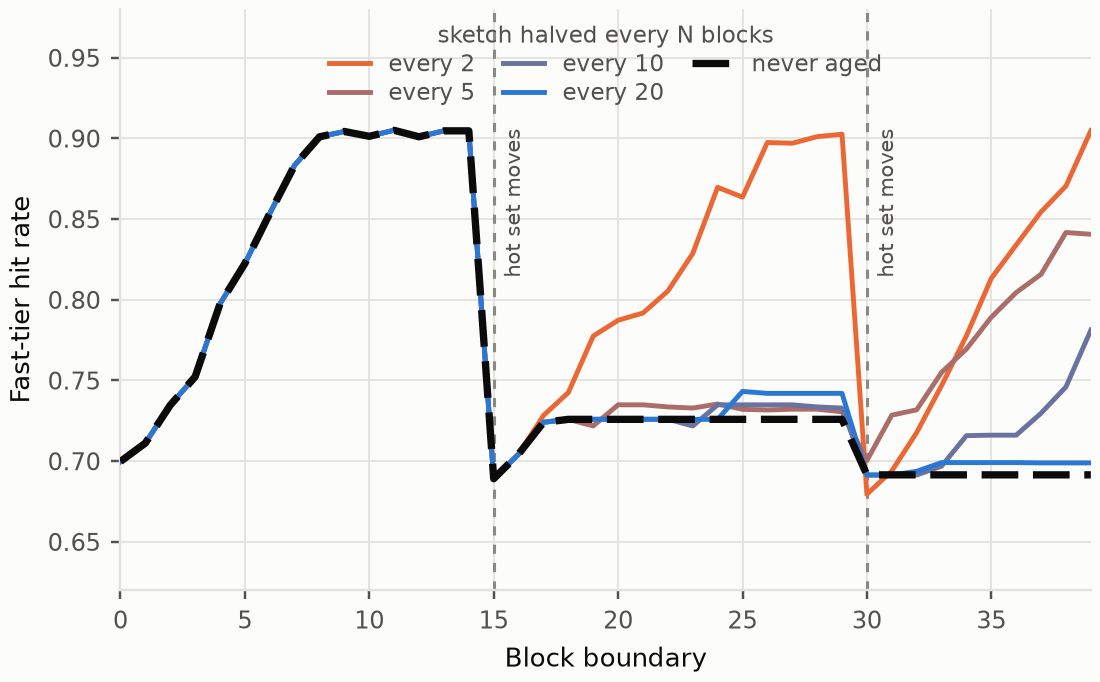
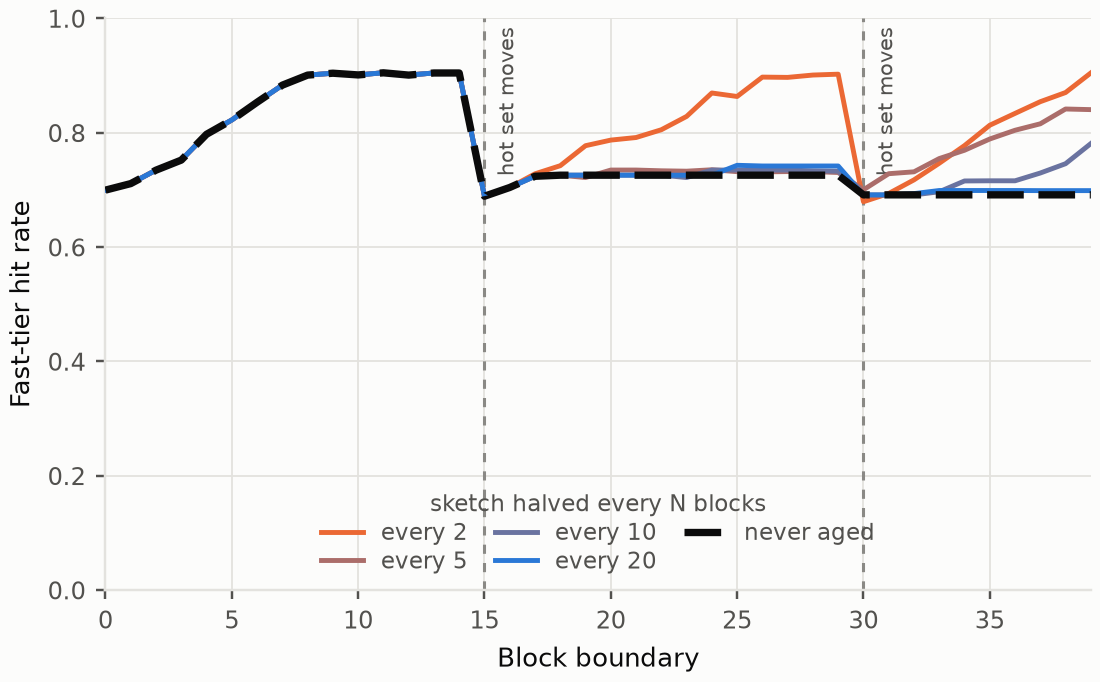
docs/objectier: anchor both figures at the origin
p2's axes did not meet: x started at -0.7 to give the centred bars room,
so the y spine floated left of x = 0. The bars are edge-aligned now, which
also reads better -- block i's relocation work occupies [i, i+0.62], after
the boundary it belongs to -- and x runs 0 to 24 with the quiet band from
14.

p1 had the same truncated-axis problem p2 was just fixed for: its y ran
0.62 to 0.98, which turned each post-move drop into a cliff spanning the
whole panel and overstated both the damage and the recovery. It runs 0 to
1 now, with the legend moved into the lower half the change frees up.

Both figures now use the same convention -- a hit rate is a fraction, so
the axis is the fraction's full range -- which also makes them comparable
side by side, and they will be read that way: p2's plateau and p1's
un-aged line are the same flat shape, and the point of the pair is that
one is convergence and the other is a silent failure.

diff --git a/docs/objectier/plot_p2.py b/docs/objectier/plot_p2.py
@@ -87,11 +87,11 @@ def main():
 
     if quiet is not None:
         for a in (ax, bar):
-            a.axvspan(quiet - 0.5, blocks[-1] + 0.5, color=CONSOLIDATED,
+            a.axvspan(quiet, blocks[-1] + 1, color=CONSOLIDATED,
                       alpha=0.07, zorder=0, linewidth=0)
         # In the empty lower half, which the honest 0-1 axis leaves free. The
         # band would otherwise be an unexplained tint.
-        ax.text((quiet + blocks[-1]) / 2, 0.42, "trigger selects\nnothing",
+        ax.text((quiet + blocks[-1] + 1) / 2, 0.42, "trigger selects\nnothing",
                 fontsize=7.5, color=INK_SOFT, ha="center", va="center")
 
     # The two bounds, so the climb is read against what is reachable rather than
@@ -105,18 +105,18 @@ def main():
         if y is None:
             continue
         ax.axhline(y, color=INK_MUTED, linewidth=1.1, dashes=(4, 2.5), zorder=2)
-        ax.text(blocks[-1], y + dy, f"{name} ({y:.3f})", fontsize=7.5,
+        ax.text(blocks[-1] + 1, y + dy, f"{name} ({y:.3f})", fontsize=7.5,
                 color=INK_SOFT, ha="right", va=va)
 
     ax.plot(blocks, hits, color=CONSOLIDATED, linewidth=2, marker="o",
             markersize=3.2, markeredgecolor=SURFACE, markeredgewidth=1.0,
             zorder=5)
-    ax.annotate(f"{max(hits):.3f}", xy=(blocks[-1], hits[-1]), xytext=(-2, -10),
+    ax.annotate(f"{max(hits):.3f}", xy=(blocks[-1], hits[-1]), xytext=(-4, -10),
                 textcoords="offset points", fontsize=8, color=INK, ha="right")
 
     if ceiling is not None:
         share = (max(hits) - floor) / (ceiling - floor)
-        ax.text(blocks[0] + 0.4, 0.06,
+        ax.text(0.4, 0.06,
                 f"{share:.0%} of the reachable gap, in {quiet} blocks",
                 fontsize=7.5, color=INK, ha="left", va="bottom")
 
@@ -124,13 +124,15 @@ def main():
     ax.set_ylim(0, 1)
     ax.set_yticks([0, 0.2, 0.4, 0.6, 0.8, 1.0])
 
-    bar.bar(blocks, moved, color=INK_MUTED, width=0.62, zorder=3)
+    # Edge-aligned so block i's work occupies [i, i+0.62] and the axes can meet
+    # at the origin; centred bars would put half of block 0's bar at x < 0.
+    bar.bar(blocks, moved, color=INK_MUTED, width=0.62, align="edge", zorder=3)
     bar.set_ylabel("Loglets\nrelocated", fontsize=8, color=INK, labelpad=2)
     bar.set_xlabel("Block boundary", fontsize=8.5, color=INK)
     bar.set_ylim(0, max(moved) + 0.6)
     bar.set_yticks(range(0, max(moved) + 1))
-    bar.set_xlim(blocks[0] - 0.7, blocks[-1] + 0.7)
-    bar.set_xticks([b for b in blocks if b % 4 == 0])
+    bar.set_xlim(0, blocks[-1] + 1)
+    bar.set_xticks([b for b in blocks if b % 4 == 0] + [blocks[-1] + 1])
 
     # The same bars in bytes moved -- the cost figure an operator would budget.
     mib = bar.secondary_yaxis(

diff --git a/docs/objectier/plot_p1.py b/docs/objectier/plot_p1.py
@@ -56,7 +56,7 @@ def main():
     # learned before each of these lines is now about the wrong accounts.
     for x in range(REDRAW_EVERY, last + 1, REDRAW_EVERY):
         ax.axvline(x, color=INK_MUTED, linewidth=1, dashes=(3, 3), zorder=1)
-        ax.text(x + 0.4, 0.906, "hot set moves", fontsize=7, color=INK_SOFT,
+        ax.text(x + 0.5, 0.985, "hot set moves", fontsize=7, color=INK_SOFT,
                 ha="left", va="top", rotation=90)
 
     # Un-aged last so it sits on top: it is the line the figure is about.
@@ -78,11 +78,15 @@ def main():
     ax.set_xlabel("Block boundary", fontsize=8.5, color=INK)
     ax.set_ylabel("Fast-tier hit rate", fontsize=8.5, color=INK)
     ax.set_xlim(0, last)
-    # Headroom above the plateau for a single-row legend, so it never sits on
-    # the data -- the flat un-aged line is the whole point and must stay clear.
-    ax.set_ylim(0.62, 0.98)
+    # A hit rate is a fraction, so the axis runs 0 to 1. Cropping to the data
+    # would turn each post-move drop into a cliff spanning the whole panel and
+    # overstate both the damage and the recovery.
+    ax.set_ylim(0, 1)
+    ax.set_yticks([0, 0.2, 0.4, 0.6, 0.8, 1.0])
 
-    leg = ax.legend(fontsize=7.5, loc="upper center", frameon=False,
+    # Into the lower half, which the 0-1 axis leaves empty; the data sits in
+    # the top third and must stay clear.
+    leg = ax.legend(fontsize=7.5, loc="lower center", frameon=False,
                     handlelength=1.8, borderpad=0.2, labelspacing=0.25,
                     ncols=3, columnspacing=1.2,
                     title="sketch halved every N blocks", title_fontsize=7.5)
